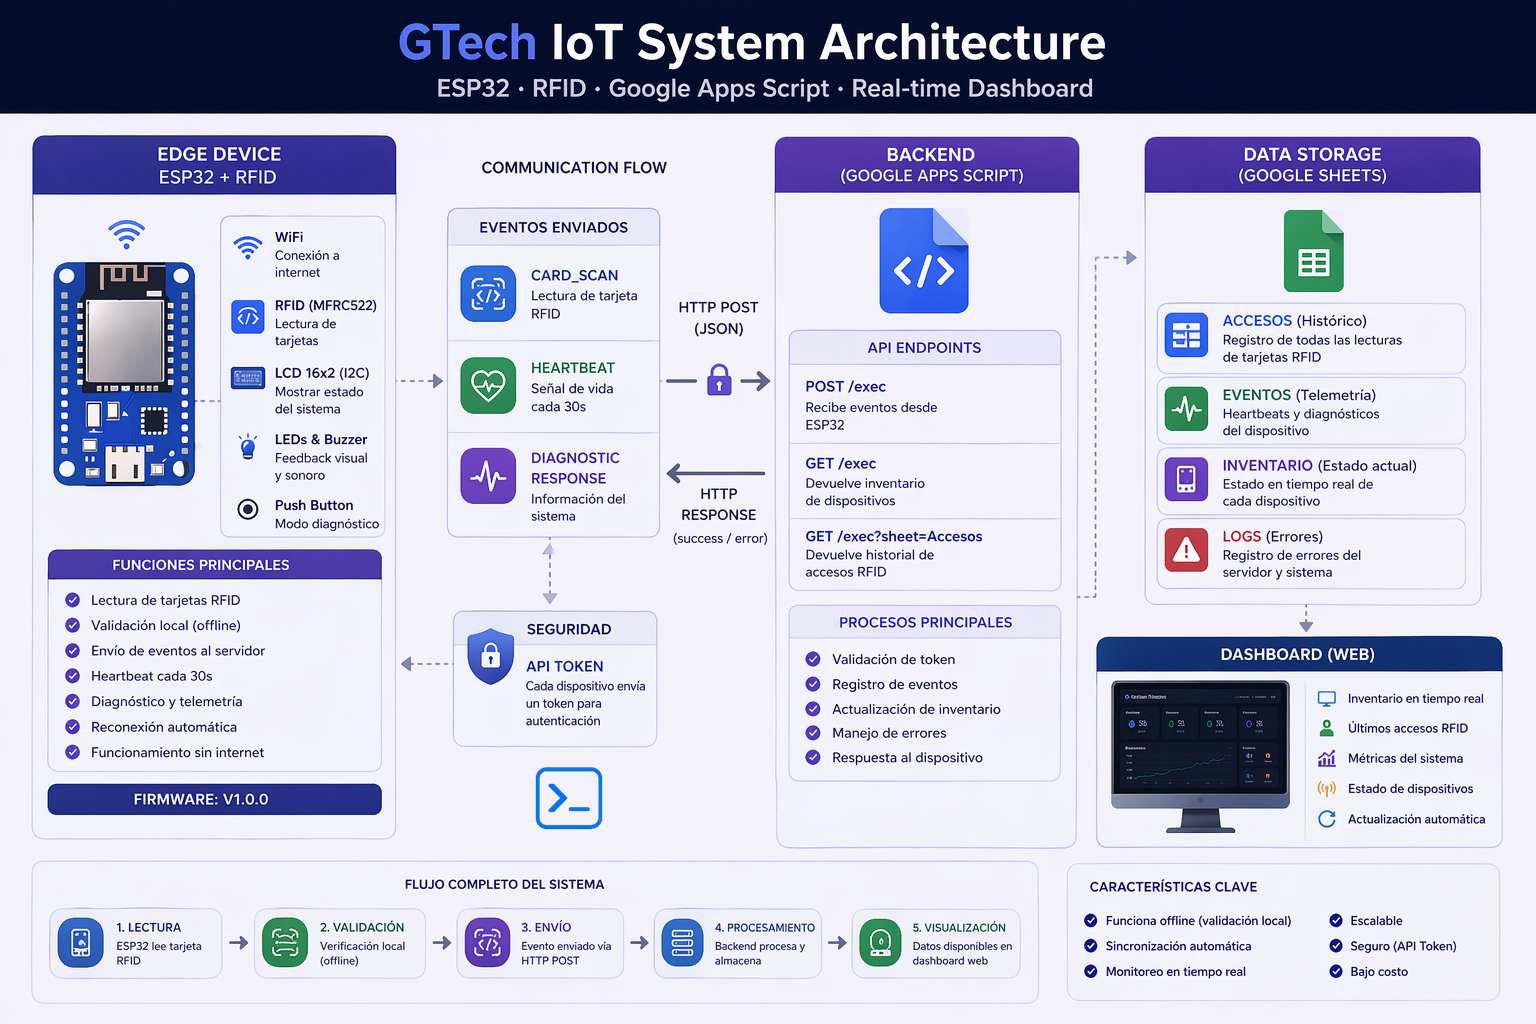
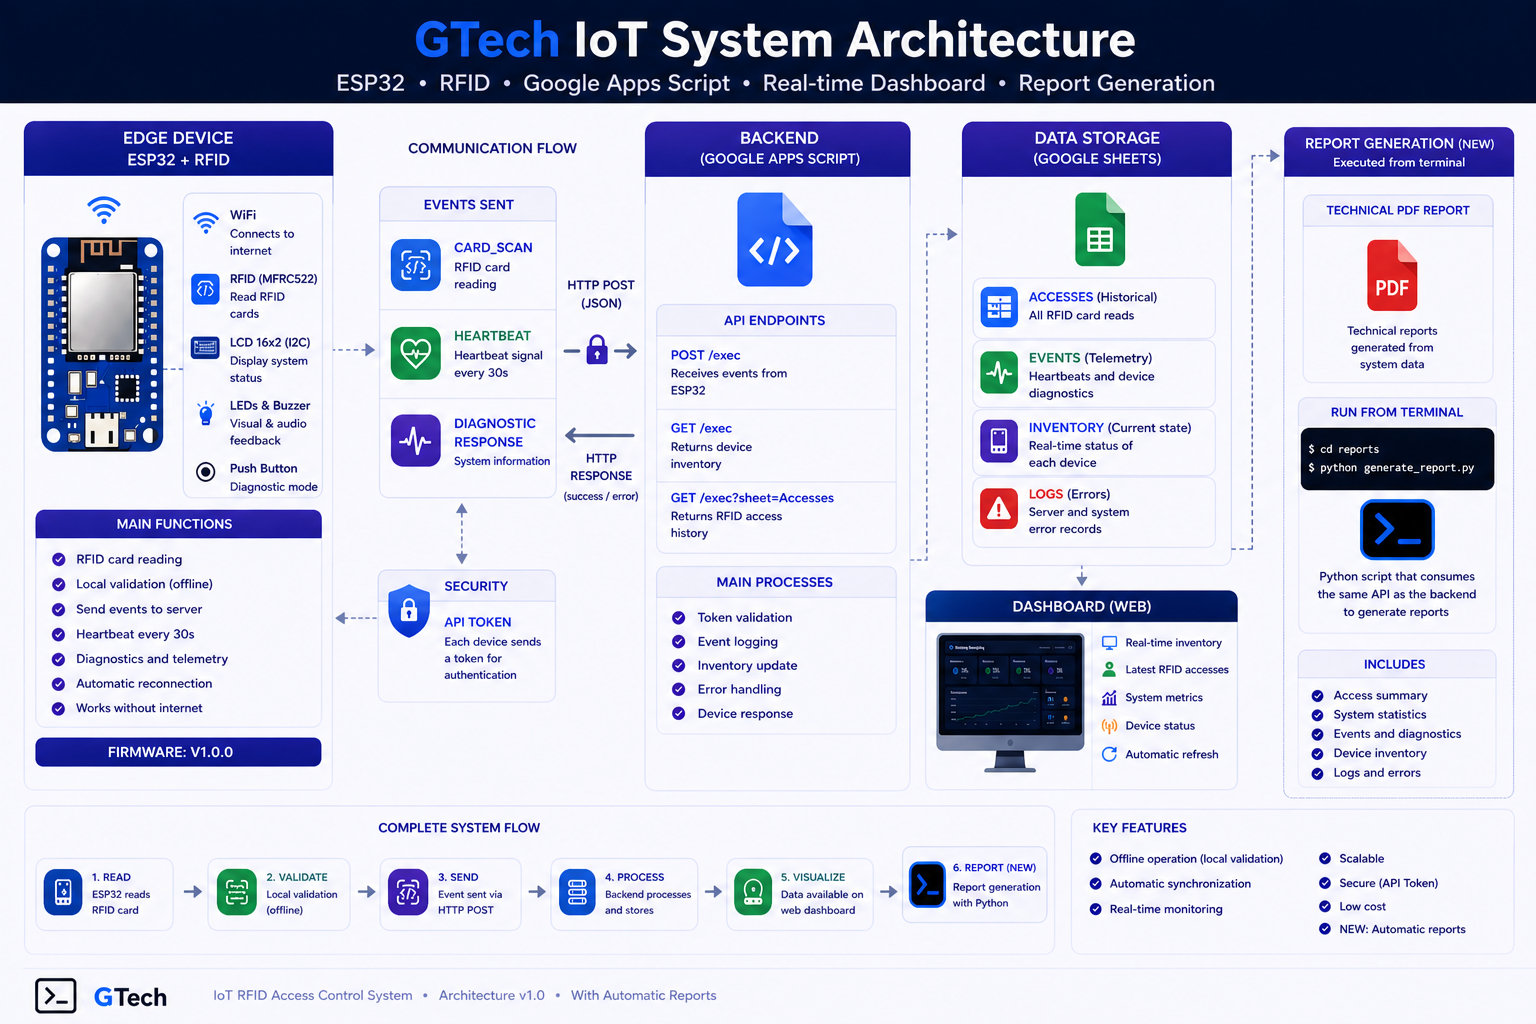
send updates in readmes with new system architecture images, firmware flow diagrams in en/es, and pdf generation gif

diff --git a/README_es.md b/README_es.md
@@ -35,6 +35,8 @@ El backend es completamente **serverless**: un **Google Apps Script** expuesto c
    Monitoreo en tiempo real         Genera informes PDF
 ```
 
+![Arquitectura del sistema](diagrams/system-architecture-es.png)
+
 ### Flujo de un evento RFID
 
 1. El ESP32 detecta una tarjeta RFID con el módulo RC522
@@ -45,6 +47,8 @@ El backend es completamente **serverless**: un **Google Apps Script** expuesto c
 6. Envía un evento `CARD_SCAN` al backend vía HTTP POST
 7. Google Apps Script registra el evento y actualiza el inventario en Google Sheets
 8. El Web Dashboard (`index.html`) refleja el evento en tiempo real mediante auto-refresh cada 30 segundos (`doGet`)
+
+![Flujo del Firmware](diagrams/firmware-flow-diagram-v1-es.png)
 
 ### Heartbeat (señal de vida)
 
@@ -339,6 +343,8 @@ python generate_report.py --device ESP32-BUK-001
 # Nombre de archivo personalizado
 python generate_report.py --device ESP32-BUK-001 --output informe_junio_2025.pdf
 ```
+
+![Demo Generación PDF](diagrams/GenReport.gif)
 
 Los PDFs generados se guardan en `reports/` y están excluidos del control de versiones mediante `.gitignore`.
 Ver [`reports/README_REPORTS_es.md`](reports/README_REPORTS_es.md) para la documentación completa.

diff --git a/README_en.md b/README_en.md
@@ -35,6 +35,8 @@ The backend is completely **serverless**: a **Google Apps Script** exposed as a 
    Real-time monitoring             Generates PDF reports
 ```
 
+![System Architecture](diagrams/system-architecture-en.png)
+
 ### RFID Event Flow
 
 1. The ESP32 detects an RFID card using the RC522 module.
@@ -45,6 +47,8 @@ The backend is completely **serverless**: a **Google Apps Script** exposed as a 
 6. It sends a `CARD_SCAN` event to the backend via HTTP POST.
 7. Google Apps Script logs the event and updates the inventory in Google Sheets.
 8. The Web Dashboard (`index.html`) reflects the event in real time via auto-refresh every 30 seconds (`doGet`).
+
+![Firmware Flow](diagrams/firmware-flow-diagram-v1-en.png)
 
 ### Heartbeat (Life Signal)
 
@@ -339,6 +343,8 @@ python generate_report.py --device ESP32-BUK-001
 # Custom output filename
 python generate_report.py --device ESP32-BUK-001 --output report_june_2025.pdf
 ```
+
+![PDF Generation Demo](diagrams/GenReport.gif)
 
 Generated PDFs are saved in `reports/` and excluded from version control via `.gitignore`.
 See [`reports/README_REPORTS.md`](reports/README_REPORTS.md) for full documentation.

diff --git a/README.md b/README.md
@@ -57,6 +57,8 @@ Wokwi (ESP32) ──POST + token──► Apps Script (doPost) ──► Google 
 
 ![System Architecture](diagrams/system-architecture-en.png)
 
+![Firmware Flow](diagrams/firmware-flow-diagram-v1-en.png)
+
 ---
 
 ## Credentials Setup (IMPORTANT)
@@ -113,6 +115,8 @@ python generate_report.py --device ESP32-BUK-001
 # Custom output filename
 python generate_report.py --device ESP32-BUK-001 --output report_june_2025.pdf
 ```
+
+![PDF Generation Demo](diagrams/GenReport.gif)
 
 Generated PDFs are saved in `reports/` and excluded from version control via `.gitignore`.
 See [`reports/README_REPORTS.md`](reports/README_REPORTS.md) for full documentation.
